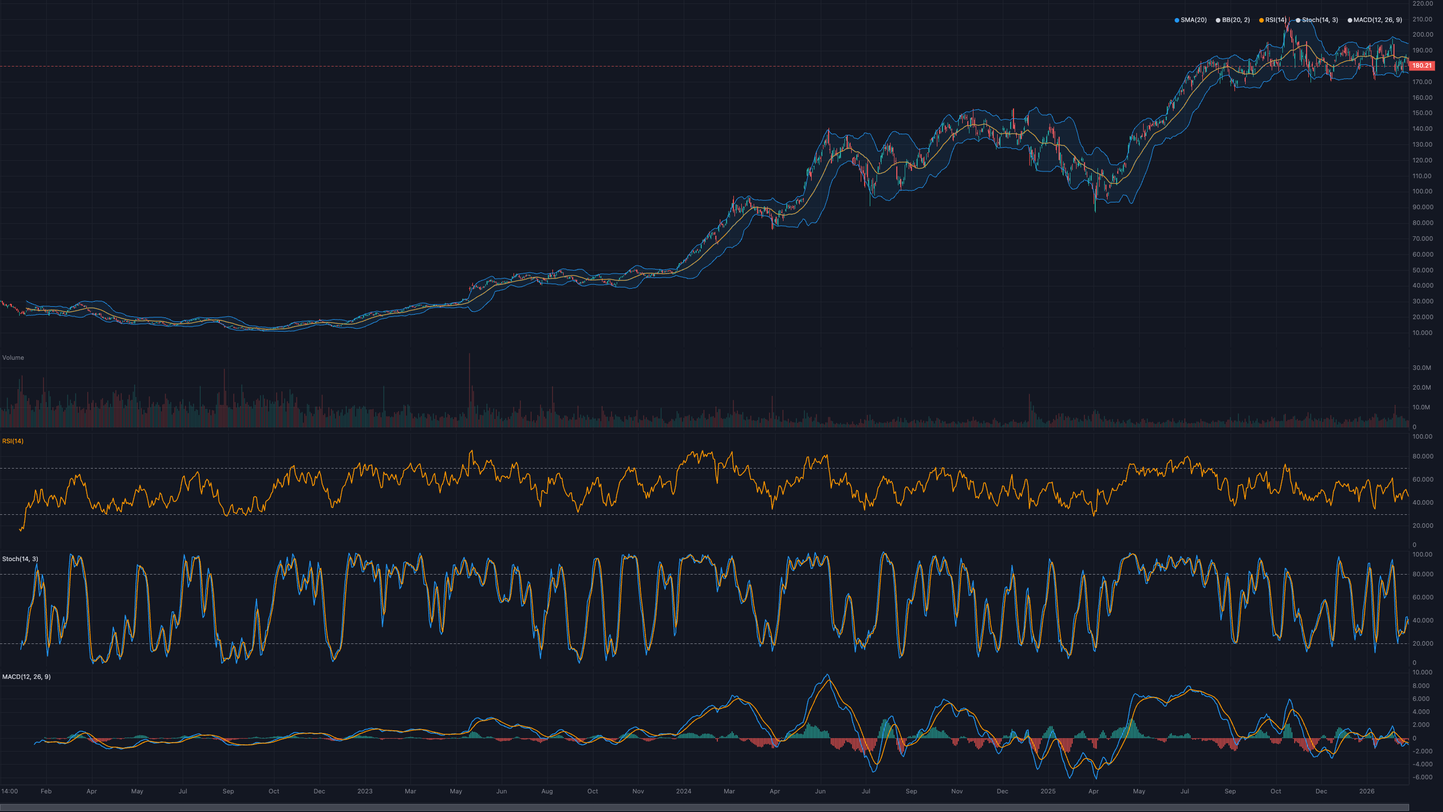
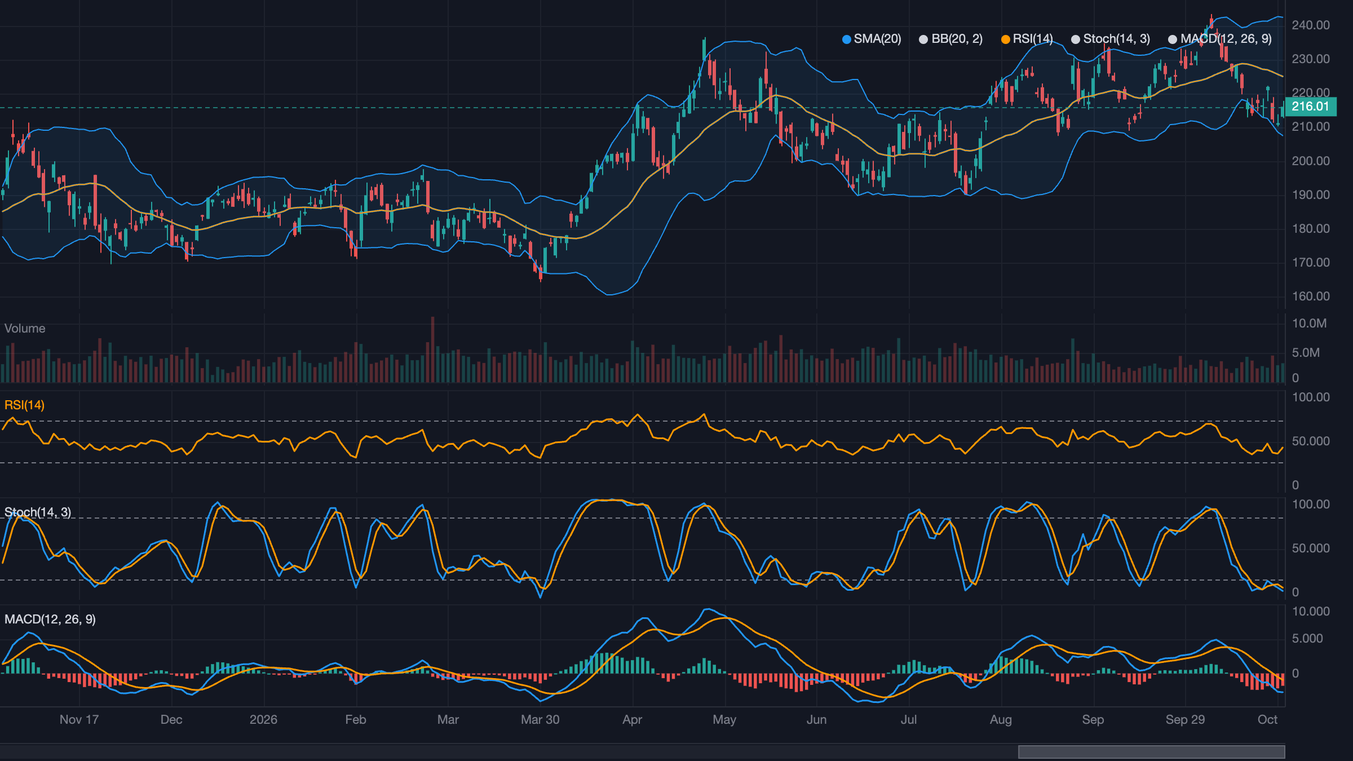
docs: fix README facts, tone down wording, and retake chart screenshots
README fixes:
- core: 48 indicators are cross-validated against TA-Lib or pandas-ta, not
  TA-Lib alone (10 of them use pandas-ta).
- chart: the hero image's alt text described a different scene; the
  Examples section said a root `pnpm install` is enough to run an example,
  but examples install on their own with `--ignore-workspace`.
- mcp: the manifest has 96 entries; it is not one per indicator.
- Plainer wording in the chart, mcp and root READMEs, the chart GUIDE and
  the strategy-studio README: drop "optional bonus", "out of the box",
  "zero-config", "differentiator", "comprehensive", the unmeasured 60 fps
  claim and the repeated zero-dependency lines.

Screenshots: capture.sh enlarged the viewport to 2560x1440 to get a 2x
image, so the chart was laid out at full width and its labels shrank to a
few pixels once GitHub scaled the image to its content column. It now lays
out at 1200x675 and captures with deviceScaleFactor 2 (2400x1350). The
scenes compute indicators on the full history and show a recent window
with setVisibleRangeByDuration (six months for hero, a year for
auto-detection and hero-candle), which keeps warm-up off screen and the
newest bar clear of the price axis. Removed the chart-types,
plugin-regime and backtest images and scenes, which no document
referenced.

diff --git a/packages/chart/examples/docs-screenshots/src/scenes/hero.ts b/packages/chart/examples/docs-screenshots/src/scenes/hero.ts
@@ -1,10 +1,10 @@
 /**
  * Hero screenshot — a clean, legible candlestick beauty shot.
  *
- * Deliberately minimal: a recent ~170-bar window so individual candles read
- * as candles (not a blur), one Bollinger Bands envelope, and a single SMA(50)
+ * Deliberately minimal: the last six months so individual candles read as
+ * candles (not a blur), one Bollinger Bands envelope, and a single SMA(50)
  * trend line. Volume sits in its own pane by default. The busy multi-pane
- * indicator story (RSI + MACD + ribbon) lives in the auto-detection scene —
+ * indicator story (RSI + MACD + ribbon) lives in the hero-candle scene —
  * the hero is the first impression, so it stays uncluttered.
  */
 
@@ -14,10 +14,6 @@ import { registerTrendCraftPresets } from "@trendcraft/chart/presets";
 import { indicatorPresets } from "trendcraft";
 
 export function run(stage: HTMLElement, candles: CandleData[]): void {
-  // Show a recent window so candles are readable at hero width instead of
-  // collapsing into a fuzzy band of 1000+ thin wicks.
-  const recent = candles.slice(-170);
-
   const chart = createChart(stage, {
     theme: "dark",
     animationDuration: 0,
@@ -25,13 +21,15 @@ export function run(stage: HTMLElement, candles: CandleData[]): void {
     chartType: "candlestick",
   });
   registerTrendCraftPresets(chart);
-  chart.setCandles(recent);
+  chart.setCandles(candles);
 
-  const conn = connectIndicators(chart, { presets: indicatorPresets, candles: recent });
+  const conn = connectIndicators(chart, { presets: indicatorPresets, candles });
   // One cohesive overlay (band) + one trend line keeps the price pane calm.
   // Keys are the canonical `indicatorPresets` ids (`bb`, not the `bollingerBands` alias).
   conn.add("bb");
   conn.add("sma", { period: 50 });
 
-  chart.fitContent();
+  // Indicators run on the full history (so warm-up stays off screen); only a
+  // recent window is shown so candles stay readable at README width.
+  chart.setVisibleRangeByDuration("6M");
 }

diff --git a/packages/chart/examples/docs-screenshots/src/main.ts b/packages/chart/examples/docs-screenshots/src/main.ts
@@ -8,11 +8,8 @@ import type { CandleData } from "@trendcraft/chart";
 import data from "../data/nvda-1day.json";
 
 import { run as runAutoDetection } from "./scenes/auto-detection";
-import { run as runBacktest } from "./scenes/backtest";
-import { run as runChartTypes } from "./scenes/chart-types";
 import { run as runHero } from "./scenes/hero";
 import { run as runHeroCandle } from "./scenes/hero-candle";
-import { run as runPluginRegime } from "./scenes/plugin-regime";
 
 const candles = data as CandleData[];
 
@@ -23,12 +20,9 @@ type Scene = {
 };
 
 const SCENES: Scene[] = [
-  { id: "hero", label: "Hero mountain (SMA 5/20/60 + RSI + MACD)", run: runHero },
+  { id: "hero", label: "Hero (Bollinger Bands + SMA 50)", run: runHero },
   { id: "hero-candle", label: "Hero candlestick variant", run: runHeroCandle },
   { id: "auto-detection", label: "Auto-detection (5 shapes)", run: runAutoDetection },
-  { id: "chart-types", label: "Chart types (candle/line/mountain/ohlc)", run: runChartTypes },
-  { id: "plugin-regime", label: "Plugin showcase: regime heatmap", run: runPluginRegime },
-  { id: "backtest", label: "Backtest visualization", run: runBacktest },
 ];
 
 const stage = document.getElementById("stage");

diff --git a/packages/chart/examples/docs-screenshots/src/scenes/hero-candle.ts b/packages/chart/examples/docs-screenshots/src/scenes/hero-candle.ts
@@ -1,8 +1,7 @@
 /**
- * Candlestick-based hero variant, for docs pages that want the trader
- * signal rather than the cleaner mountain base.
- * Uses an SMA 5/20/60 ribbon plus RSI and MACD panes (hero.ts uses
- * Bollinger Bands + SMA 50 instead).
+ * GUIDE hero: an SMA 5/20/60 ribbon plus RSI and MACD panes, for docs pages
+ * that want the full indicator stack (hero.ts keeps the README hero to
+ * Bollinger Bands + SMA 50).
  */
 
 import type { CandleData } from "@trendcraft/chart";
@@ -27,5 +26,9 @@ export function run(stage: HTMLElement, candles: CandleData[]): void {
   conn.add("rsi", { period: 14 });
   conn.add("macd");
 
-  chart.fitContent();
+  // Indicators run on the full history (so warm-up stays off screen), but only
+  // the last year is shown: four years at docs width blur into a band.
+  // setVisibleRangeByDuration ends at the live edge, so the newest bar stays
+  // clear of the price axis.
+  chart.setVisibleRangeByDuration("1Y");
 }

diff --git a/packages/chart/examples/docs-screenshots/src/scenes/auto-detection.ts b/packages/chart/examples/docs-screenshots/src/scenes/auto-detection.ts
@@ -29,5 +29,9 @@ export function run(stage: HTMLElement, candles: CandleData[]): void {
   chart.addIndicator(stochastics(candles));
   chart.addIndicator(macd(candles));
 
-  chart.fitContent();
+  // Indicators run on the full history (so warm-up stays off screen), but only
+  // the last year is shown: four years at README width blur into a band.
+  // setVisibleRangeByDuration ends at the live edge, so the newest bar stays
+  // clear of the price axis.
+  chart.setVisibleRangeByDuration("1Y");
 }

diff --git a/packages/chart/README.md b/packages/chart/README.md
@@ -1,6 +1,6 @@
 # @trendcraft/chart
 
-A zero-dependency Canvas charting library for OHLC / financial data. Works standalone on plain `{ time, value }[]` data; pairs with TrendCraft for zero-config indicators.
+A zero-dependency Canvas charting library for OHLC / financial data. Works standalone on plain `{ time, value }[]` data; pairs with TrendCraft to place and style indicators automatically.
 
 [![npm version](https://img.shields.io/npm/v/@trendcraft/chart.svg)](https://www.npmjs.com/package/@trendcraft/chart)
 [![npm downloads](https://img.shields.io/npm/dm/@trendcraft/chart.svg)](https://www.npmjs.com/package/@trendcraft/chart)
@@ -8,11 +8,11 @@ A zero-dependency Canvas charting library for OHLC / financial data. Works stand
 [![TypeScript types included](https://img.shields.io/npm/types/@trendcraft/chart.svg)](https://www.npmjs.com/package/@trendcraft/chart)
 [![license MIT](https://img.shields.io/npm/l/@trendcraft/chart.svg)](https://github.com/sawapi/trendcraft/blob/main/LICENSE)
 
-A standalone Canvas charting library built for OHLC and financial data. Hand it plain candle arrays and `{ time, value }[]` series and it renders candlesticks, lines, bands, and sub-panes with no runtime dependencies — no chart framework, no data adapter, no TrendCraft required. It ships React/Vue wrappers and a DOM-free headless build out of the box.
+A standalone Canvas charting library built for OHLC and financial data. Hand it plain candle arrays and `{ time, value }[]` series and it renders candlesticks, lines, bands, and sub-panes. It also ships React/Vue wrappers and a DOM-free headless build.
 
-As an optional bonus, when you pair it with [TrendCraft](https://github.com/sawapi/trendcraft), the chart auto-detects each indicator's shape and metadata — figuring out pane placement, colors, value ranges, and render style with zero config. That's a convenience layer on top, not a requirement.
+Optionally, when you pair it with [TrendCraft](https://github.com/sawapi/trendcraft), the chart reads each indicator's shape and metadata to choose pane placement, colors, value range, and render style, so most indicators need no configuration.
 
-![NVDA daily with a 5/20/60 SMA ribbon, RSI, and MACD — rendered with one chart.addIndicator call per indicator](https://raw.githubusercontent.com/sawapi/trendcraft/main/packages/chart/docs/assets/hero.png)
+![NVDA daily candlesticks with Bollinger Bands (20, 2), SMA(50), and volume](https://raw.githubusercontent.com/sawapi/trendcraft/main/packages/chart/docs/assets/hero.png)
 
 ## Install
 
@@ -20,11 +20,11 @@ As an optional bonus, when you pair it with [TrendCraft](https://github.com/sawa
 npm install @trendcraft/chart
 ```
 
-That's the only required package — the chart runs standalone on plain data with zero runtime dependencies.
+That's the only required package.
 
 ```bash
 # Optional, only if you need them:
-npm install trendcraft   # zero-config indicator auto-detection + connectIndicators
+npm install trendcraft   # indicator auto-detection + connectIndicators
 npm install react        # for @trendcraft/chart/react   (React 18+)
 npm install vue          # for @trendcraft/chart/vue      (Vue 3.3+)
 ```
@@ -35,7 +35,7 @@ npm install vue          # for @trendcraft/chart/vue      (Vue 3.3+)
 
 ### Standalone — just `@trendcraft/chart`
 
-No TrendCraft, no other library. Feed it OHLC candles and a plain `{ time, value }[]` series. The container **must have an explicit height** (the canvas fills its parent).
+Feed it OHLC candles and a plain `{ time, value }[]` series. The container **must have an explicit height** (the canvas fills its parent).
 
 ```html
 <div id="chart" style="height:480px"></div>
@@ -74,7 +74,7 @@ const ma = candles.map((c, i, a) => ({
 chart.addIndicator(ma, { pane: 'main', color: '#FF9800', label: 'MA(3)' });
 ```
 
-### With TrendCraft — zero-config indicators
+### With TrendCraft — auto-detected indicators
 
 If you also install `trendcraft`, pass indicator output straight to `addIndicator` and the chart reads pane placement, colors, y-range, and render style from each indicator's own metadata — no manual series decomposition.
 
@@ -96,21 +96,21 @@ chart.addIndicator(macd(candles));                // sub-pane, histogram + 2 lin
 
 ## Highlights
 
-- **Works standalone** — renders candlestick / OHLC and plain `{ time, value }[]` series with zero runtime dependencies; no other library required.
+- **Works standalone** — renders candlestick / OHLC and plain `{ time, value }[]` series without any other library.
 - **Core series types** — candlestick, OHLC, line, mountain price rendering, plus band/fill and Ichimoku cloud overlays.
 - **Responsive / auto-resize** — a built-in `ResizeObserver` keeps the chart sharp as its container resizes; no manual `resize()` wiring.
-- **Touch & pinch-zoom** — mobile-friendly pan and pinch-to-zoom gestures out of the box.
+- **Touch & pinch-zoom** — pan and pinch-to-zoom on touch devices.
 - **Dark / Light + custom theming** — ships dark and light themes, plus fully customizable colors, fonts, and grid styling.
 - **Accessibility** — ARIA live region for screen-reader updates and full keyboard navigation of the chart.
 - **Drawings & interaction** — trendlines, h-lines, fib retracement/extension, channels, and configurable crosshair magnet modes.
-- **Auto-detection (with TrendCraft)** — inspects each `Series<T>` shape (number, band, cloud, MACD, stochastic, DMI, SAR…) plus TrendCraft `__meta` to place and style series with zero config.
+- **Auto-detection (with TrendCraft)** — inspects each `Series<T>` shape (number, band, cloud, MACD, stochastic, DMI, SAR…) plus TrendCraft `__meta` to place and style series without per-series options.
 - **Tree-shakeable plugins** — SMC layer, Wyckoff phases, Volume Profile, Market Profile, regime heatmap, price patterns, S/R confluence, squeeze dots, session zones, Andrews pitchfork, trade analysis.
 - **Indicator connection** — `connectIndicators` for handle-based add/remove/recompute with optional live streaming.
 - **Backtest & analysis** — visualize `BacktestResult` trade markers + equity curve, pattern outlines, and per-bar score heatmaps.
 - **React & Vue wrappers** — `<TrendChart>` components plus `useTrendChart` hook/composable for imperative access.
 - **Headless API** — DOM-free data layer, scales, layout, and `introspect` for SSR, testing, and custom renderers.
 - **Sparkline & replay subpaths** — compact ~4 kB sparklines and a live-feed replay simulator.
-- **Bundle-size discipline** — zero runtime dependencies; every major entry point (main, headless, sparkline, replay, React/Vue wrappers) is brotli size-checked in CI.
+- **Bundle size checks** — every major entry point (main, headless, sparkline, replay, React/Vue wrappers) is brotli size-checked in CI.
 
 ## Framework bindings
 
@@ -130,14 +130,14 @@ Both expose a `<TrendChart>` component (props: `candles`, `indicators`, `signals
 
 ## Examples
 
-Runnable example apps live in the repo. Clone it, `pnpm install`, then start any example with `pnpm dev`:
+Runnable example apps live in the repo. Each installs on its own: from the example's directory, run `pnpm install --ignore-workspace`, then `pnpm dev`. (`pnpm build` in an example also type-checks the chart and core sources, so it needs `pnpm install --frozen-lockfile` at the repo root first.)
 
-| Example | What it shows | Run |
-|---|---|---|
-| [simple-chart](https://github.com/sawapi/trendcraft/tree/main/packages/chart/examples/simple-chart) | Vanilla TypeScript chart with indicators, drawings, and plugins | `pnpm -C packages/chart/examples/simple-chart dev` |
-| [indicator-showcase](https://github.com/sawapi/trendcraft/tree/main/packages/chart/examples/indicator-showcase) | Multi-indicator catalog (canonical preset / auto-detection setup) | `pnpm -C packages/chart/examples/indicator-showcase dev` |
-| [simple-react-chart](https://github.com/sawapi/trendcraft/tree/main/packages/chart/examples/simple-react-chart) | React wrapper usage | `pnpm -C packages/chart/examples/simple-react-chart dev` |
-| [simple-vue-chart](https://github.com/sawapi/trendcraft/tree/main/packages/chart/examples/simple-vue-chart) | Vue wrapper usage | `pnpm -C packages/chart/examples/simple-vue-chart dev` |
+| Example | What it shows |
+|---|---|
+| [simple-chart](https://github.com/sawapi/trendcraft/tree/main/packages/chart/examples/simple-chart) | Vanilla TypeScript chart with indicators, drawings, and plugins |
+| [indicator-showcase](https://github.com/sawapi/trendcraft/tree/main/packages/chart/examples/indicator-showcase) | Multi-indicator catalog (canonical preset / auto-detection setup) |
+| [simple-react-chart](https://github.com/sawapi/trendcraft/tree/main/packages/chart/examples/simple-react-chart) | React wrapper usage |
+| [simple-vue-chart](https://github.com/sawapi/trendcraft/tree/main/packages/chart/examples/simple-vue-chart) | Vue wrapper usage |
 
 ## Subpath entry points
 
@@ -166,7 +166,7 @@ Also published: [`CHANGELOG.md`](https://github.com/sawapi/trendcraft/blob/main/
 
 ## Stability
 
-Pre-1.0 (0.x): the API may change between minor versions; see the [CHANGELOG](https://github.com/sawapi/trendcraft/blob/main/packages/chart/CHANGELOG.md). Every breaking change ships with an explicit Breaking / Migration note so upgrades are deliberate, not surprising.
+Pre-1.0 (0.x): the API may change between minor versions; see the [CHANGELOG](https://github.com/sawapi/trendcraft/blob/main/packages/chart/CHANGELOG.md). Breaking changes are listed under **Breaking** in the CHANGELOG, with migration notes.
 
 ## Disclaimer
 

diff --git a/packages/chart/examples/docs-screenshots/README.md b/packages/chart/examples/docs-screenshots/README.md
@@ -29,7 +29,7 @@ pnpm dev
 # → http://localhost:5175/?scene=hero
 ```
 
-Scenes: `hero`, `hero-candle`, `auto-detection`, `chart-types`, `plugin-regime`, `backtest`. Opening `/` (no query) lists all of them.
+Scenes: `hero`, `hero-candle`, `auto-detection`. Opening `/` (no query) lists all of them.
 
 `pnpm dev` and `pnpm capture` need only the setup above: Vite serves the chart and core straight from their sources. `pnpm build` typechecks against the packages' built type declarations (their `dist`), so it needs `pnpm install --frozen-lockfile && pnpm build` at the repo root first.
 
@@ -41,18 +41,15 @@ pnpm capture hero        # one scene
 pnpm capture hero auto-detection   # subset
 ```
 
-Runs the Vite dev server on port 5175 in the background, then drives `agent-browser` through each scene at 2560×1440 viewport. Each scene sets `window.__chartReady = true` when it finishes painting; the capture script waits on that flag before screenshotting.
+Runs the Vite dev server on port 5175 in the background, then drives `agent-browser` through each scene at a 1200×675 viewport with deviceScaleFactor 2 (2400×1350 PNG). Each scene sets `window.__chartReady = true` when it finishes painting; the capture script waits on that flag before screenshotting.
 
 ## Scenes
 
 | id | purpose | indicators |
 |---|---|---|
-| `hero` | README top, clean candlestick beauty shot (~170-bar window) | Bollinger Bands + SMA 50 |
-| `hero-candle` | GUIDE, candlestick variant | SMA 5 / 20 / 60 + RSI + MACD |
-| `auto-detection` | show five distinct shape types | SMA + Bollinger + RSI + Stochastics + MACD |
-| `chart-types` | 2×2 of candle / line / mountain / ohlc | — |
-| `plugin-regime` | plugin showcase | HMM regime heatmap on SMA 20 |
-| `backtest` | backtest visualization | goldenCross 20/50 |
+| `hero` | README top, clean candlestick beauty shot (last six months shown) | Bollinger Bands + SMA 50 |
+| `hero-candle` | GUIDE, candlestick variant (last year shown) | SMA 5 / 20 / 60 + RSI + MACD |
+| `auto-detection` | README + GUIDE, five distinct shape types (last year shown) | SMA + Bollinger + RSI + Stochastics + MACD |
 
 Adding a scene: drop `src/scenes/<id>.ts` exporting `run(stage, candles)`, register it in `SCENES` in both `src/main.ts` and `capture.sh`, and update this table.
 

diff --git a/packages/chart/docs/GUIDE.md b/packages/chart/docs/GUIDE.md
@@ -29,8 +29,8 @@ A conceptual walkthrough of `@trendcraft/chart`. If you just want to get pixels 
 
 `@trendcraft/chart` is a Canvas-based charting library built specifically for financial time series. It optimizes for three things:
 
-1. **Zero-config indicator rendering** — pass a `trendcraft` indicator output and the chart figures out where it belongs, what scale it needs, and what reference lines to draw.
-2. **A small, focused runtime** — no runtime dependencies, ~44 kB main bundle (brotli, size-limit enforced), one canvas per chart, no virtual DOM.
+1. **Indicator auto-detection** — pass a `trendcraft` indicator output and the chart figures out where it belongs, what scale it needs, and what reference lines to draw.
+2. **A small, focused runtime** — no runtime dependencies, ~41 kB main bundle (brotli, size-limit enforced), one canvas per chart, no virtual DOM.
 3. **Extensibility as a plugin system, not a configuration tree** — custom series types and overlays ship as plain functions you register.
 
 What it's **not**:
@@ -366,7 +366,7 @@ The chart's responsibility is only rendering; the candle aggregation and increme
 
 ## Performance
 
-The library targets 60 fps with 10K+ candles out of the box. The mechanisms:
+These mechanisms keep large datasets (10K+ candles) responsive:
 
 - **LTTB decimation.** Above a threshold, line series are downsampled using [Largest-Triangle-Three-Buckets](https://github.com/sveinn-steinarsson/flot-downsample) to roughly one point per pixel column. Candlesticks are decimated by aggregation (OHLC reduction).
 - **Incremental repaints.** Only dirty frames repaint. Crosshair moves repaint a single overlay, not the series layer.

diff --git a/packages/chart/docs/assets/README.md b/packages/chart/docs/assets/README.md
@@ -6,14 +6,11 @@ Screenshots referenced from `packages/chart/README.md` and the docs under `packa
 
 | File | Scene | Used in |
 |---|---|---|
-| `hero.png` | `hero` | README (top) — mountain base for a clean first impression |
-| `hero-candle.png` | `hero-candle` | GUIDE — candlestick variant with the same indicator stack |
-| `auto-detection.png` | `auto-detection` | README "With TrendCraft — zero-config indicators" section + GUIDE "Auto-detection from `__meta`" section |
-| `chart-types.png` | `chart-types` | llms-full.txt "Chart Types" section |
-| `plugin-regime.png` | `plugin-regime` | llms-full.txt "Plugin System" section |
-| `backtest.png` | `backtest` | llms-full.txt "Backtest Visualization" section |
+| `hero.png` | `hero` | README (top) — recent candlesticks with Bollinger Bands and SMA(50) |
+| `hero-candle.png` | `hero-candle` | GUIDE — SMA 5/20/60 ribbon with RSI and MACD panes |
+| `auto-detection.png` | `auto-detection` | README "With TrendCraft — auto-detected indicators" section + GUIDE "Auto-detection from `__meta`" section |
 
-Each image is 2560×1440 (2x Retina-class), dark theme, pinned font (`"Helvetica Neue", Arial, sans-serif`). File sizes typically land in the 150–500 KB range. Prefer PNG; WebP is fine if you need smaller files for a specific image.
+Each image is laid out at 1200×675 CSS pixels and captured at deviceScaleFactor 2 (2400×1350 PNG), so labels stay readable when GitHub scales it to its content width. Dark theme, pinned font (`"Helvetica Neue", Arial, sans-serif`). File sizes typically land in the 130–250 KB range. Prefer PNG; WebP is fine if you need smaller files for a specific image.
 
 ## How to (re)generate
 

diff --git a/README.md b/README.md
@@ -39,7 +39,7 @@ Most demos are standalone Vite apps — `cd` into the directory, then `pnpm inst
 
 **Core (`trendcraft`)**
 - [`packages/core/examples/quick-start`](./packages/core/examples/quick-start) — the smallest "import and call an indicator" examples. Plain TS scripts, no dev server: from `packages/core`, run e.g. `pnpm exec tsx examples/quick-start/01-basic-indicators.ts`.
-- [`packages/core/examples/echarts-viewer`](./packages/core/examples/echarts-viewer) — comprehensive React + ECharts viewer (indicators, signals, backtest, optimization, pattern replay). Vite app (`pnpm install --ignore-workspace` + `pnpm dev`). Demonstrates that the `trendcraft` core works with any chart library, not only `@trendcraft/chart`.
+- [`packages/core/examples/echarts-viewer`](./packages/core/examples/echarts-viewer) — React + ECharts viewer (indicators, signals, backtest, optimization, pattern replay). Vite app (`pnpm install --ignore-workspace` + `pnpm dev`). Shows the `trendcraft` core used with a chart library other than `@trendcraft/chart`.
 - [`packages/core/examples/trading-simulator`](./packages/core/examples/trading-simulator) — bar-replay practice tool with order management and end-of-session review. Vite app (`pnpm install --ignore-workspace` + `pnpm dev`).
 - [`packages/core/examples/sp500-showcase`](./packages/core/examples/sp500-showcase) — screening and backtesting across US ETFs. Plain TS scripts, no dev server: set Alpaca API credentials, then run `pnpm exec tsx fetch-data.ts && pnpm exec tsx run-showcase.ts` from that directory.
 

diff --git a/packages/mcp/README.md b/packages/mcp/README.md
@@ -2,7 +2,7 @@
 
 A Model Context Protocol server exposing [TrendCraft](https://github.com/sawapi/trendcraft)'s technical-analysis indicators and signals to MCP clients like Claude Desktop and Cursor over stdio.
 
-The server's differentiator is its structured per-indicator **manifest** — 96+ entries with `whenToUse`, `pitfalls`, `synergy`, `marketRegime`, `timeframe`, and `paramHints` — that lets an LLM decide *which* indicator to use, paired with token-aware calc and signal dispatchers built for agentic single-symbol analysis and multi-symbol screening. It ships no data connector: candles are supplied by the caller (paste from a file, or pair with a data-source MCP server).
+A structured per-indicator **manifest** (96 entries with `whenToUse`, `pitfalls`, `synergy`, `marketRegime`, `timeframe`, and `paramHints`) helps an LLM decide *which* indicator to use. Calc and signal dispatchers then run the chosen indicators, with options that keep responses small (`lastN`, sparse `firedAt` lists) for single-symbol analysis and multi-symbol screening. It ships no data connector: candles are supplied by the caller (paste from a file, or pair with a data-source MCP server).
 
 ## Install
 

diff --git a/packages/core/README.ja.md b/packages/core/README.ja.md
@@ -53,7 +53,7 @@ console.log(`Return: ${result.totalReturnPercent.toFixed(2)}%  Sharpe: ${result.
 - **ストリーミング** — `createLiveCandle()` がティックやローソク足を集約し、90以上のインクリメンタルなインジケーターファクトリをバーごとに駆動。再開可能なセッションのための状態保存/復元に対応。
 - **高度な分析** — ペアトレード/共和分、クロスアセット相関、アルファ減衰モニタリング、戦略ロバストネススコアリング、シグナル説明可能性。
 
-48個のインジケーターはTA-Libと相互検証済みです — [`cross-validation/`](https://github.com/sawapi/trendcraft/tree/main/packages/core/cross-validation) を参照してください。
+48個のインジケーターはTA-Libまたはpandas-taと相互検証済みです — [`cross-validation/`](https://github.com/sawapi/trendcraft/tree/main/packages/core/cross-validation) を参照してください。
 
 ## エントリーポイント
 

diff --git a/packages/chart/examples/strategy-studio/README.md b/packages/chart/examples/strategy-studio/README.md
@@ -11,7 +11,7 @@ The studio runs **fully offline with no LLM key**. It uses `detectMarketRegime` 
 | `simple-chart`, `simple-react-chart`, `simple-vue-chart` | Minimal "hello world" for each binding |
 | `indicator-showcase` | All 96+ presets in a catalog (per-preset minimal demo) |
 | `sparkline-showcase` | Sparkline subpath demo |
-| `echarts-viewer` (formerly `chart-viewer`) | **Proof that the `trendcraft` core works with any chart library** (here: ECharts). Comprehensive analysis app, but ECharts-based |
+| `echarts-viewer` (formerly `chart-viewer`) | Shows the `trendcraft` core used with a chart library other than `@trendcraft/chart` (here: ECharts). A full analysis app, ECharts-based |
 | **Strategy Studio** (this) | **Flagship `@trendcraft/chart` dogfooding + cross-feature integration**. The place to verify TrendCraft as a fullstack toolkit |
 
 `echarts-viewer` and `indicator-showcase` are intentionally preserved — they cover different value propositions and overlap in functionality is by design.
